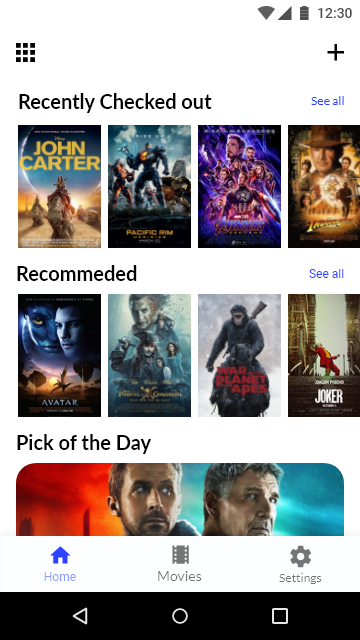
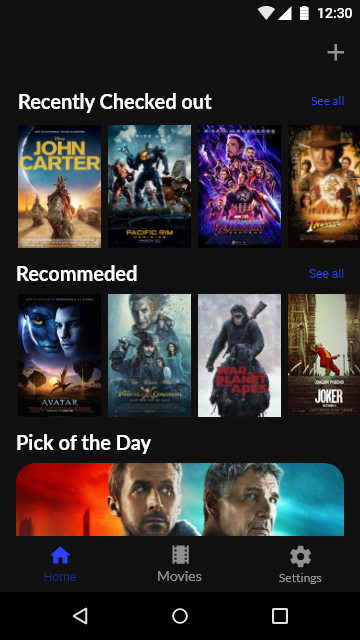
changed theme to dark

diff --git a/lib/screens/home.dart b/lib/screens/home.dart
@@ -1,0 +1,71 @@
+import 'package:flutter/material.dart';
+import 'package:movie_hero/screens/home_screen.dart';
+import 'package:movie_hero/screens/movie_screen.dart';
+class Home extends StatefulWidget {
+  @override
+  _HomeState createState() => _HomeState();
+}
+
+class _HomeState extends State<Home> {
+   int _selectedIndex = 0;
+   
+  static List<Widget> _widgetOptions = <Widget>[
+    HomeScreen(),
+    MovieScreen(),
+    Text('Settings'),
+  ];
+
+  void _onItemTapped(int index) {
+    setState(() {
+      _selectedIndex = index;
+    });
+  }
+  
+   @override
+  Widget build(BuildContext context) {
+    return Scaffold(
+      backgroundColor: Color(0xff101010),
+      appBar: AppBar(
+        elevation: 0.0,
+        backgroundColor: Color(0xff101010),
+        actions: <Widget>[
+          Padding(
+            padding: const EdgeInsets.only(right: 10.0),
+            child: IconButton(
+              icon: Icon(
+                Icons.add,
+                color: Colors.white,
+                size: 28.0,
+              ),
+              onPressed: () => print('pressed add'),
+            ),
+          ),
+        ],
+      ),
+      body:  _widgetOptions.elementAt(_selectedIndex),
+      
+      bottomNavigationBar: BottomNavigationBar(
+        backgroundColor: Color(0xff101010),
+        unselectedItemColor: Colors.white24,
+        items: const <BottomNavigationBarItem>[
+          BottomNavigationBarItem(
+            icon: Icon(Icons.local_movies),
+            title: Text('Movies'),
+          ),
+          BottomNavigationBarItem(
+            icon: Icon(Icons.search),
+            title: Text('Search'),
+          ),
+          BottomNavigationBarItem(
+            icon: Icon(Icons.settings),
+            title: Text('Settings'),
+          ),
+        ],
+        currentIndex: _selectedIndex,
+        selectedItemColor: Theme.of(context).primaryColor,
+        onTap: _onItemTapped,
+      ),
+    );
+  }
+}
+

diff --git a/lib/screens/home_screen.dart b/lib/screens/home_screen.dart
@@ -1,44 +1,20 @@
 import 'package:flutter/material.dart';
 import 'package:movie_hero/components/movie_carousel.dart';
 
-class HomeScreen extends StatelessWidget {
+class HomeScreen extends StatefulWidget {
   @override
+  _HomeScreenState createState() => _HomeScreenState();
+}
+
+class _HomeScreenState extends State<HomeScreen> {
+   @override
   Widget build(BuildContext context) {
-    return Scaffold(
-      appBar: AppBar(
-        elevation: 0.0,
-        backgroundColor: Colors.white,
-        leading: IconButton(
-          icon: Icon(
-            Icons.apps,
-            size: 26.0,
-            color: Colors.black,
-          ),
-          onPressed: () => print('pressed apps'),
-        ),
-        actions: <Widget>[
-          Padding(
-            padding: const EdgeInsets.only(right: 10.0),
-            child: IconButton(
-              icon: Icon(
-                Icons.add,
-                color: Colors.black,
-                size: 28.0,
-              ),
-              onPressed: () => print('pressed add'),
-            ),
-          ),
-        ],
-      ),
-      body: SafeArea(
-        child: ListView(
-          children: <Widget>[
-            MovieCarousel('Recently Checked out', 4),
-            MovieCarousel('Recommended', 7),
-          ],
-        ),
-      ),
-      bottomNavigationBar: ,
+    return ListView(
+      children: <Widget>[
+        MovieCarousel('Recently Checkeed out', 5),
+        MovieCarousel('Recommended', 7),
+      ],
     );
   }
 }
+

diff --git a/lib/screens/movie_screen.dart b/lib/screens/movie_screen.dart
@@ -4,24 +4,18 @@ class MovieScreen extends StatelessWidget {
   @override
   Widget build(BuildContext context) {
     return Scaffold(
+      backgroundColor: Color(0xff101010),
       appBar: AppBar(
-          elevation: 0.0,
-          backgroundColor: Colors.white,
-          leading: IconButton(
-            icon: Icon(
-              Icons.arrow_back,
-              size: 26.0,
-              color: Colors.black,
-            ),
-            onPressed: () => print('pressed back'),
+        backgroundColor: Color(0xff101010),
+        leading: IconButton(
+          icon: Icon(
+            Icons.arrow_back_ios,
+            color: Colors.white,
           ),
+          onPressed: () => Navigator.pop(context),
         ),
-        body: SafeArea(
-          child: ListView(
-            addAutomaticKeepAlives: false,
-            controller: ScrollController(initialScrollOffset: 10.0),
-          ),
-        ),
+      ),
+      body: Text('hello'),
     );
   }
 }

diff --git a/lib/main.dart b/lib/main.dart
@@ -1,5 +1,5 @@
 import 'package:flutter/material.dart';
-import 'package:movie_hero/screens/home_screen.dart';
+import 'package:movie_hero/screens/home.dart';
 
 void main() {
   runApp(MyApp());
@@ -16,7 +16,7 @@ class MyApp extends StatelessWidget {
         visualDensity: VisualDensity.adaptivePlatformDensity,
         fontFamily: 'Lato'
       ),
-      home: HomeScreen(),
+      home: Home(),
     );
   }
 }

diff --git a/lib/components/movie_carousel.dart b/lib/components/movie_carousel.dart
@@ -25,6 +25,7 @@ class MovieCarousel extends StatelessWidget {
                 style: TextStyle(
                   fontSize: 24.0,
                   fontWeight: FontWeight.bold,
+                  color: Colors.white,
                 ),
               ),
               GestureDetector(
